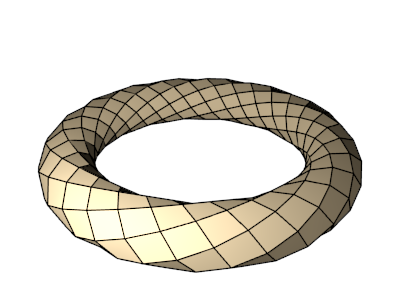
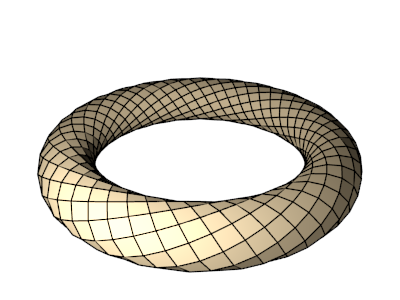
Eight color patterns (from Grünbaum & Shephard) for SquareTessagon.

Changed region(s): [[0.09, 0.24, 0.93, 0.93]]

diff --git a/types/square_tessagon.py b/types/square_tessagon.py
@@ -26,6 +26,89 @@ class SquareTile(Tile):
                              ['bottom', 'right'],
                              ['bottom', 'left']])
 
+  def calculate_colors(self):
+    if self.color_pattern == 1:
+      self.color_pattern1()
+    elif self.color_pattern == 2:
+      self.color_pattern2()
+    elif self.color_pattern == 3:
+      self.color_pattern3()
+    elif self.color_pattern == 4:
+      self.color_pattern4()
+    elif self.color_pattern == 5:
+      self.color_pattern5()
+    elif self.color_pattern == 6:
+      self.color_pattern6()
+    elif self.color_pattern == 7:
+      self.color_pattern7()
+    elif self.color_pattern == 8:
+      self.color_pattern8()
+
+  def color_pattern1(self):
+    if (self.fingerprint[0] + self.fingerprint[1]) % 2 == 0:
+      self.color_face(['middle'], 0)
+    else:
+      self.color_face(['middle'], 1)
+
+  def color_pattern2(self):
+    if (self.fingerprint[0] + self.fingerprint[1]) % 2 == 0:
+      self.color_face(['middle'], 0)
+    elif self.fingerprint[0] % 2 == 0:
+      self.color_face(['middle'], 1)
+    else:
+      self.color_face(['middle'], 2)
+
+  def color_pattern3(self):
+    if (self.fingerprint[0] * self.fingerprint[1]) % 2 == 0:
+      self.color_face(['middle'], 0)
+    else:
+      self.color_face(['middle'], 1)
+
+  def color_pattern4(self):
+    if self.fingerprint[1] % 2 == 0:
+      self.color_face(['middle'], 0)
+    else:
+      if ((self.fingerprint[1] // 2) + self.fingerprint[0]) % 2 == 0:
+        self.color_face(['middle'], 0)
+      else:
+        self.color_face(['middle'], 1)
+
+  def color_pattern5(self):
+    if self.fingerprint[1] % 2 == 0:
+      self.color_face(['middle'], 0)
+    else:
+      self.color_face(['middle'], 1)
+
+  def color_pattern6(self):
+    if self.fingerprint[1] % 2 == 0:
+      self.color_face(['middle'], 0)
+    else:
+      if self.fingerprint[0] % 2 == 0:
+        self.color_face(['middle'], 1)
+      else:
+        self.color_face(['middle'], 2)
+
+  def color_pattern7(self):
+    if self.fingerprint[1] % 2 == 0:
+      self.color_face(['middle'], 0)
+    else:
+      if ((self.fingerprint[1] // 2) + self.fingerprint[0]) % 2 == 0:
+        self.color_face(['middle'], 1)
+      else:
+        self.color_face(['middle'], 2)
+
+  def color_pattern8(self):
+    if self.fingerprint[1] % 2 == 0:
+      if self.fingerprint[0] % 2 == 0:
+        self.color_face(['middle'], 0)
+      else:
+        self.color_face(['middle'], 1)
+    else:
+      if self.fingerprint[0] % 2 == 0:
+        self.color_face(['middle'], 2)
+      else:
+        self.color_face(['middle'], 3)
+
 class SquareTessagon(Tessagon):
   def init_tile_class(self):
     return SquareTile

diff --git a/demo/tessagon_common_demo.py b/demo/tessagon_common_demo.py
@@ -34,6 +34,17 @@ class TessagonCommonDemo:
     self.floret_tessagon([column, 0, row - 2*offset], color_pattern=2)
     self.floret_tessagon([column, 0, row - 3*offset], color_pattern=3)
 
+    column += offset
+    self.square_tessagon([column, 0, row])
+    self.square_tessagon([column, 0, row - offset], color_pattern=1)
+    self.square_tessagon([column, 0, row - 2*offset], color_pattern=2)
+    self.square_tessagon([column, 0, row - 3*offset], color_pattern=3)
+    self.square_tessagon([column, 0, row - 4*offset], color_pattern=4)
+    self.square_tessagon([column, 0, row - 5*offset], color_pattern=5)
+    self.square_tessagon([column, 0, row - 6*offset], color_pattern=6)
+    self.square_tessagon([column, 0, row - 7*offset], color_pattern=7)
+    self.square_tessagon([column, 0, row - 8*offset], color_pattern=8)
+
     # Non-colored objects
     column += offset
     column += offset
@@ -50,13 +61,13 @@ class TessagonCommonDemo:
     column = start_column
     row -= offset
     # Row 2
-    self.square_tessagon([column, 0, row])
-    column += offset
     self.pythagorean_tessagon([column, 0, row])
     column += offset
     self.brick_tessagon([column, 0, row])
     column += offset
     self.dodeca_tessagon([column, 0, row])
+    column += offset
+    self.zig_zag_tessagon([column, 0, row])
 
     column = start_column
     row -= offset
@@ -66,8 +77,6 @@ class TessagonCommonDemo:
     self.weave_tessagon([column, 0, row])
     column += offset
     self.hex_big_tri_tessagon([column, 0, row])
-    column += offset
-    self.zig_zag_tessagon([column, 0, row])
 
   def hex_tessagon(self, position, **kwargs):
     options = {
@@ -91,6 +100,17 @@ class TessagonCommonDemo:
       'position': position
     }
     return self.tessellate(torus, TriTessagon, **{**kwargs, **options})
+
+  def square_tessagon(self, position, **kwargs):
+    options = {
+      'u_range': [0.0, 1.0],
+      'v_range': [0.0, 1.0],
+      'u_num': 24,
+      'v_num': 6,
+      'rot_factor': 2,
+      'position': position
+    }
+    return self.tessellate(torus, SquareTessagon, **{**kwargs, **options})
 
   def rhombus_klein(self, u, v):
     (x, y, z) = klein(u, v)
@@ -141,17 +161,6 @@ class TessagonCommonDemo:
       'position': position
     }
     return self.tessellate(torus, HexSquareTriTessagon, **options)
-
-  def square_tessagon(self, position):
-    options = {
-      'u_range': [0.0, 1.0],
-      'v_range': [0.0, 1.0],
-      'u_num': 15,
-      'v_num': 4,
-      'rot_factor': 2,
-      'position': position
-    }
-    return self.tessellate(torus, SquareTessagon, **options)
 
   def pythagorean_tessagon(self, position):
     options = {

diff --git a/demo/documentation_images_blender.py b/demo/documentation_images_blender.py
@@ -97,20 +97,29 @@ def render_tessagons():
   render_object('FloretTessagonColor2')
   render_object('FloretTessagonColor3')
 
+  render_object('SquareTessagon')
+  render_object('SquareTessagonColor1')
+  render_object('SquareTessagonColor2')
+  render_object('SquareTessagonColor3')
+  render_object('SquareTessagonColor4')
+  render_object('SquareTessagonColor5')
+  render_object('SquareTessagonColor6')
+  render_object('SquareTessagonColor7')
+  render_object('SquareTessagonColor8')
+
   render_object('RhombusTessagon')
   render_object('OctoTessagon')
   render_object('HexTriTessagon')
   render_object('HexSquareTriTessagon')
 
-  render_object('SquareTessagon')
   render_object('PythagoreanTessagon')
   render_object('BrickTessagon')
   render_object('DodecaTessagon')
+  render_object('ZigZagTessagon')
 
   render_object('SquareTriTessagon')
   render_object('WeaveTessagon')
   render_object('HexBigTriTessagon')
-  render_object('ZigZagTessagon')
 
   render_object(['HexTorusIn','WireTorusOut'],
                 filename='wire_skin.png', mark_edges=False)

diff --git a/README.md b/README.md
@@ -107,6 +107,38 @@ Option `color_pattern=3` gives the following pattern:
 ### `SquareTessagon`
 ![SquareTessagon](documentation/images/square_tessagon.png)
 
+Option `color_pattern=1` gives the following pattern:
+
+![SquareTessagon color pattern 1](documentation/images/square_tessagon_color1.png)
+
+Option `color_pattern=2` gives the following pattern:
+
+![SquareTessagon color pattern 2](documentation/images/square_tessagon_color2.png)
+
+Option `color_pattern=3` gives the following pattern:
+
+![SquareTessagon color pattern 3](documentation/images/square_tessagon_color3.png)
+
+Option `color_pattern=4` gives the following pattern:
+
+![SquareTessagon color pattern 4](documentation/images/square_tessagon_color4.png)
+
+Option `color_pattern=5` gives the following pattern:
+
+![SquareTessagon color pattern 5](documentation/images/square_tessagon_color5.png)
+
+Option `color_pattern=6` gives the following pattern:
+
+![SquareTessagon color pattern 6](documentation/images/square_tessagon_color6.png)
+
+Option `color_pattern=7` gives the following pattern:
+
+![SquareTessagon color pattern 7](documentation/images/square_tessagon_color7.png)
+
+Option `color_pattern=8` gives the following pattern:
+
+![SquareTessagon color pattern 8](documentation/images/square_tessagon_color8.png)
+
 ---
 
 ### `PythagoreanTessagon`
